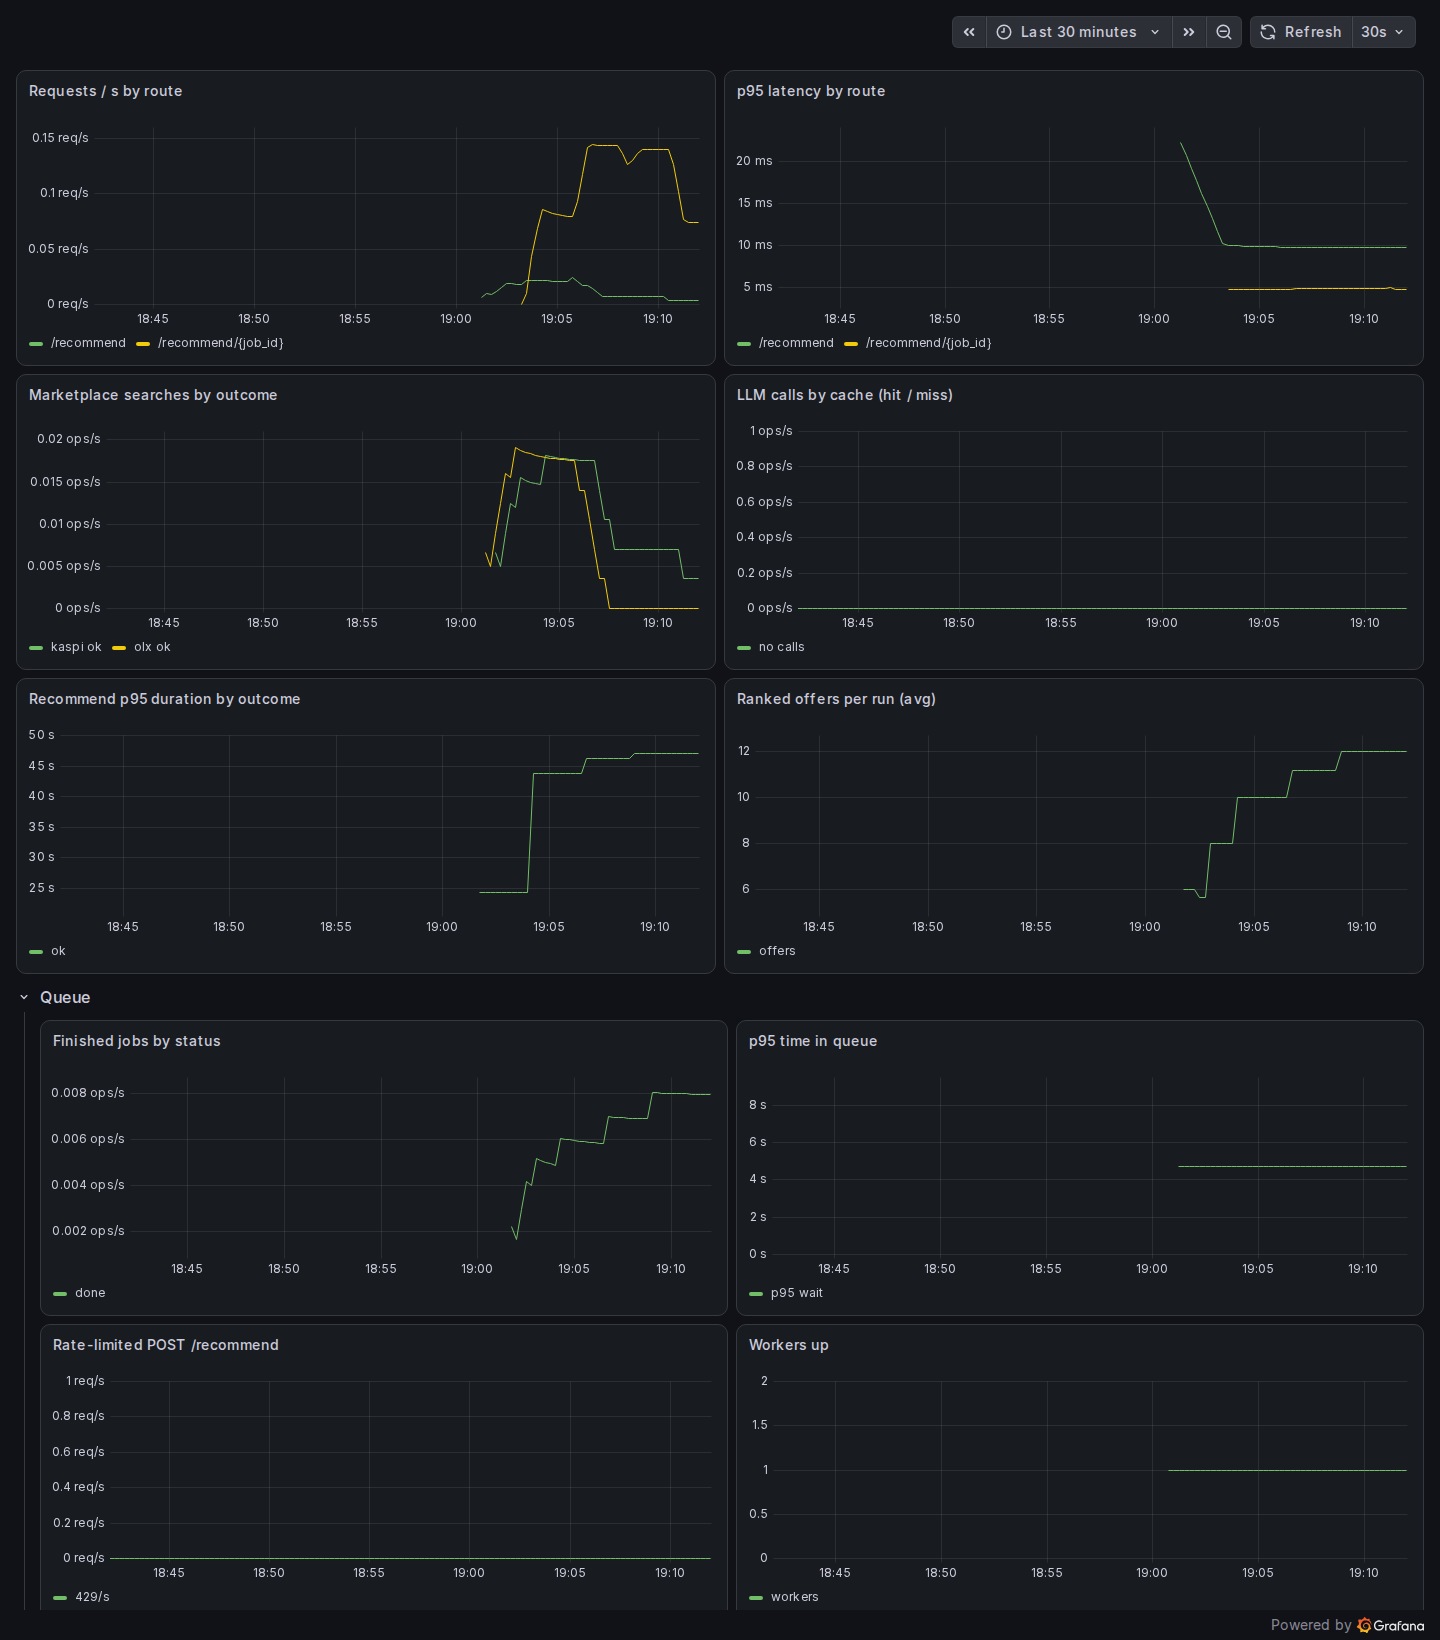
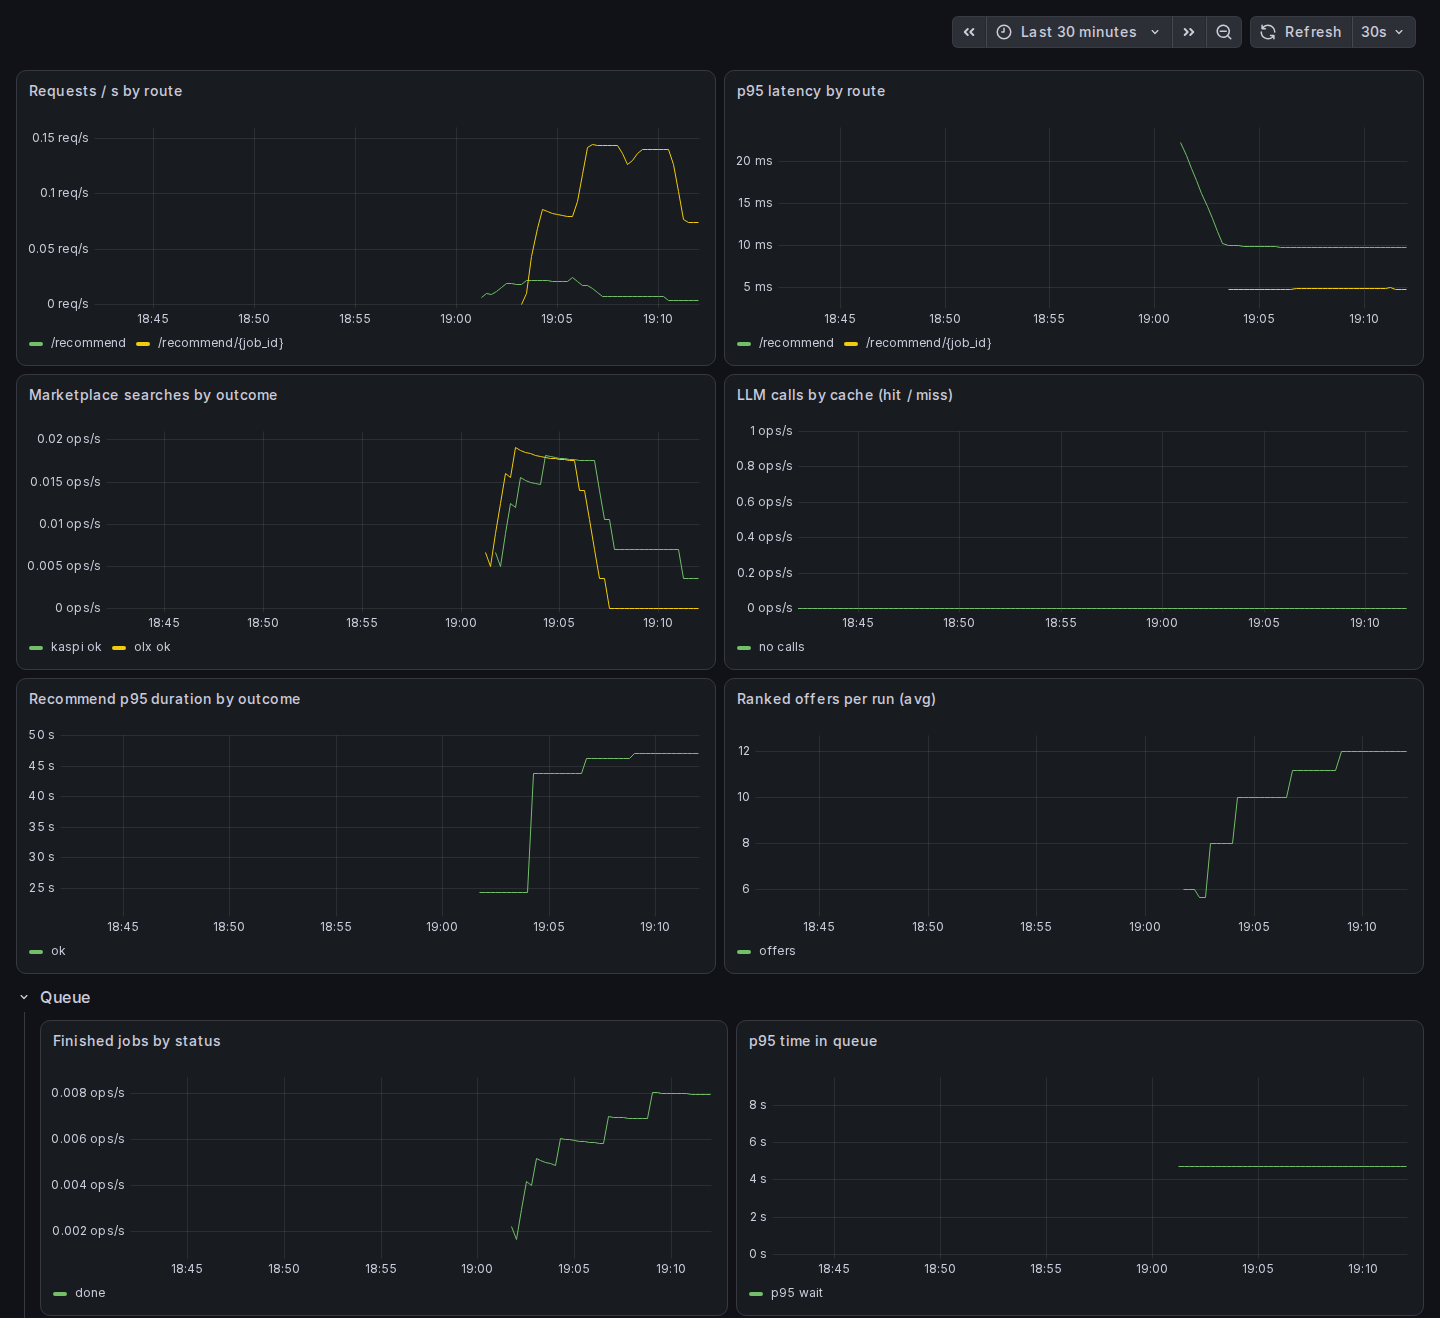
docs: vertical architecture diagram, full-width screenshots

diff --git a/README.ru.md b/README.ru.md
@@ -70,14 +70,14 @@
 Stream, выполняет воркер, а клиент опрашивает результат.
 
 ```mermaid
-flowchart LR
-    client([client]) -->|"POST /recommend<br/>GET /recommend/{id}"| api[FastAPI]
+flowchart TD
+    client([client]) -->|"POST /recommend, GET /recommend/{id}"| api[FastAPI]
     api -->|"job, dedupe, rate limit"| redis[(Redis)]
     redis -->|"stream, ack after the run"| worker[taskiq worker]
+    worker -->|result| redis
     worker -->|"search, offers, reviews"| markets[Kaspi · Ozon · OLX]
-    worker -->|"price history"| pg[(Postgres)]
-    worker -->|"result"| redis
-    api -.->|"metrics, traces"| obs[Prometheus · Grafana · Jaeger]
+    worker -->|price history| pg[(Postgres)]
+    api -.->|metrics, traces| obs[Prometheus · Grafana · Jaeger]
     worker -.-> obs
 ```
 
@@ -90,8 +90,10 @@ flowchart LR
 через воркер до запросов в Postgres и HTTP-запросов к площадкам.
 
 <p align="center">
-  <img src="./assets/readme/grafana.png" width="49%" alt="Дашборд Grafana buy-smarter за последние 30 минут: запросы по маршрутам, p95 задержки, поиски по площадкам Kaspi и OLX по исходу, вызовы LLM (в этом прогоне их нет), p95 длительности подбора около 45 секунд, около 12 кандидатов в рейтинге, ряд Queue с завершёнными задачами, p95 ожидания в очереди около 5 секунд, ноль отказов по лимиту и один живой воркер.">
-  <img src="./assets/readme/jaeger.png" width="49%" alt="Трейс Jaeger buysmarter: POST /recommend, 43,8 секунды, 426 спанов. Спан POST (202) ведёт к спану отправки taskiq и спану выполнения в воркере, внутри которого спаны подключения и SELECT к Postgres, а за ними ряд HTTP GET 200 по 350–730 миллисекунд.">
+  <img src="./assets/readme/grafana.png" width="100%" alt="Дашборд Grafana buy-smarter за последние 30 минут: запросы по маршрутам, p95 задержки, поиски по площадкам Kaspi и OLX по исходу, вызовы LLM (в этом прогоне их нет), p95 длительности подбора около 45 секунд, около 12 кандидатов в рейтинге и ряд Queue с завершёнными задачами и p95 ожидания в очереди около 5 секунд.">
+</p>
+<p align="center">
+  <img src="./assets/readme/jaeger.png" width="100%" alt="Трейс Jaeger buysmarter: POST /recommend, 43,8 секунды, 426 спанов. Спан POST (202) ведёт к спану отправки taskiq и спану выполнения в воркере, внутри которого спаны подключения и SELECT к Postgres, а за ними ряд HTTP GET 200 по 350–730 миллисекунд.">
 </p>
 
 Каждый PR гоняет тесты, собирает образ (не root, healthcheck), поднимает compose-стек и ставит, тестирует и

diff --git a/README.md b/README.md
@@ -68,14 +68,14 @@ One pipeline sits behind all three entry points. A run takes tens of seconds, so
 stream, a worker runs it, and the client polls for the result.
 
 ```mermaid
-flowchart LR
-    client([client]) -->|"POST /recommend<br/>GET /recommend/{id}"| api[FastAPI]
+flowchart TD
+    client([client]) -->|"POST /recommend, GET /recommend/{id}"| api[FastAPI]
     api -->|"job, dedupe, rate limit"| redis[(Redis)]
     redis -->|"stream, ack after the run"| worker[taskiq worker]
+    worker -->|result| redis
     worker -->|"search, offers, reviews"| markets[Kaspi · Ozon · OLX]
-    worker -->|"price history"| pg[(Postgres)]
-    worker -->|"result"| redis
-    api -.->|"metrics, traces"| obs[Prometheus · Grafana · Jaeger]
+    worker -->|price history| pg[(Postgres)]
+    api -.->|metrics, traces| obs[Prometheus · Grafana · Jaeger]
     worker -.-> obs
 ```
 
@@ -88,8 +88,10 @@ jobs: the dashboard with HTTP, marketplace, ranking and queue panels, and one jo
 `POST /recommend` through the worker to the Postgres queries and the marketplace HTTP calls.
 
 <p align="center">
-  <img src="./assets/readme/grafana.png" width="49%" alt="Grafana dashboard buy-smarter over the last 30 minutes: requests per route, p95 latency, marketplace searches by outcome for Kaspi and OLX, LLM calls (none in this run), recommend p95 duration around 45 seconds, about 12 ranked offers per run, and a Queue row with finished jobs, about 5 seconds p95 time in queue, zero rate-limited requests and one worker up.">
-  <img src="./assets/readme/jaeger.png" width="49%" alt="Jaeger trace buysmarter: POST /recommend, 43.8 seconds, 426 spans. The POST span (202) leads to the taskiq send span and the execute span in the worker, which holds Postgres connect and SELECT spans followed by a row of HTTP GET 200 calls of 350 to 730 milliseconds each.">
+  <img src="./assets/readme/grafana.png" width="100%" alt="Grafana dashboard buy-smarter over the last 30 minutes: requests per route, p95 latency, marketplace searches by outcome for Kaspi and OLX, LLM calls (none in this run), recommend p95 duration around 45 seconds, about 12 ranked offers per run, and a Queue row with finished jobs and about 5 seconds p95 time in queue.">
+</p>
+<p align="center">
+  <img src="./assets/readme/jaeger.png" width="100%" alt="Jaeger trace buysmarter: POST /recommend, 43.8 seconds, 426 spans. The POST span (202) leads to the taskiq send span and the execute span in the worker, which holds Postgres connect and SELECT spans followed by a row of HTTP GET 200 calls of 350 to 730 milliseconds each.">
 </p>
 
 Every PR runs the tests, builds the image (non-root, healthcheck), starts the compose stack and installs, tests
